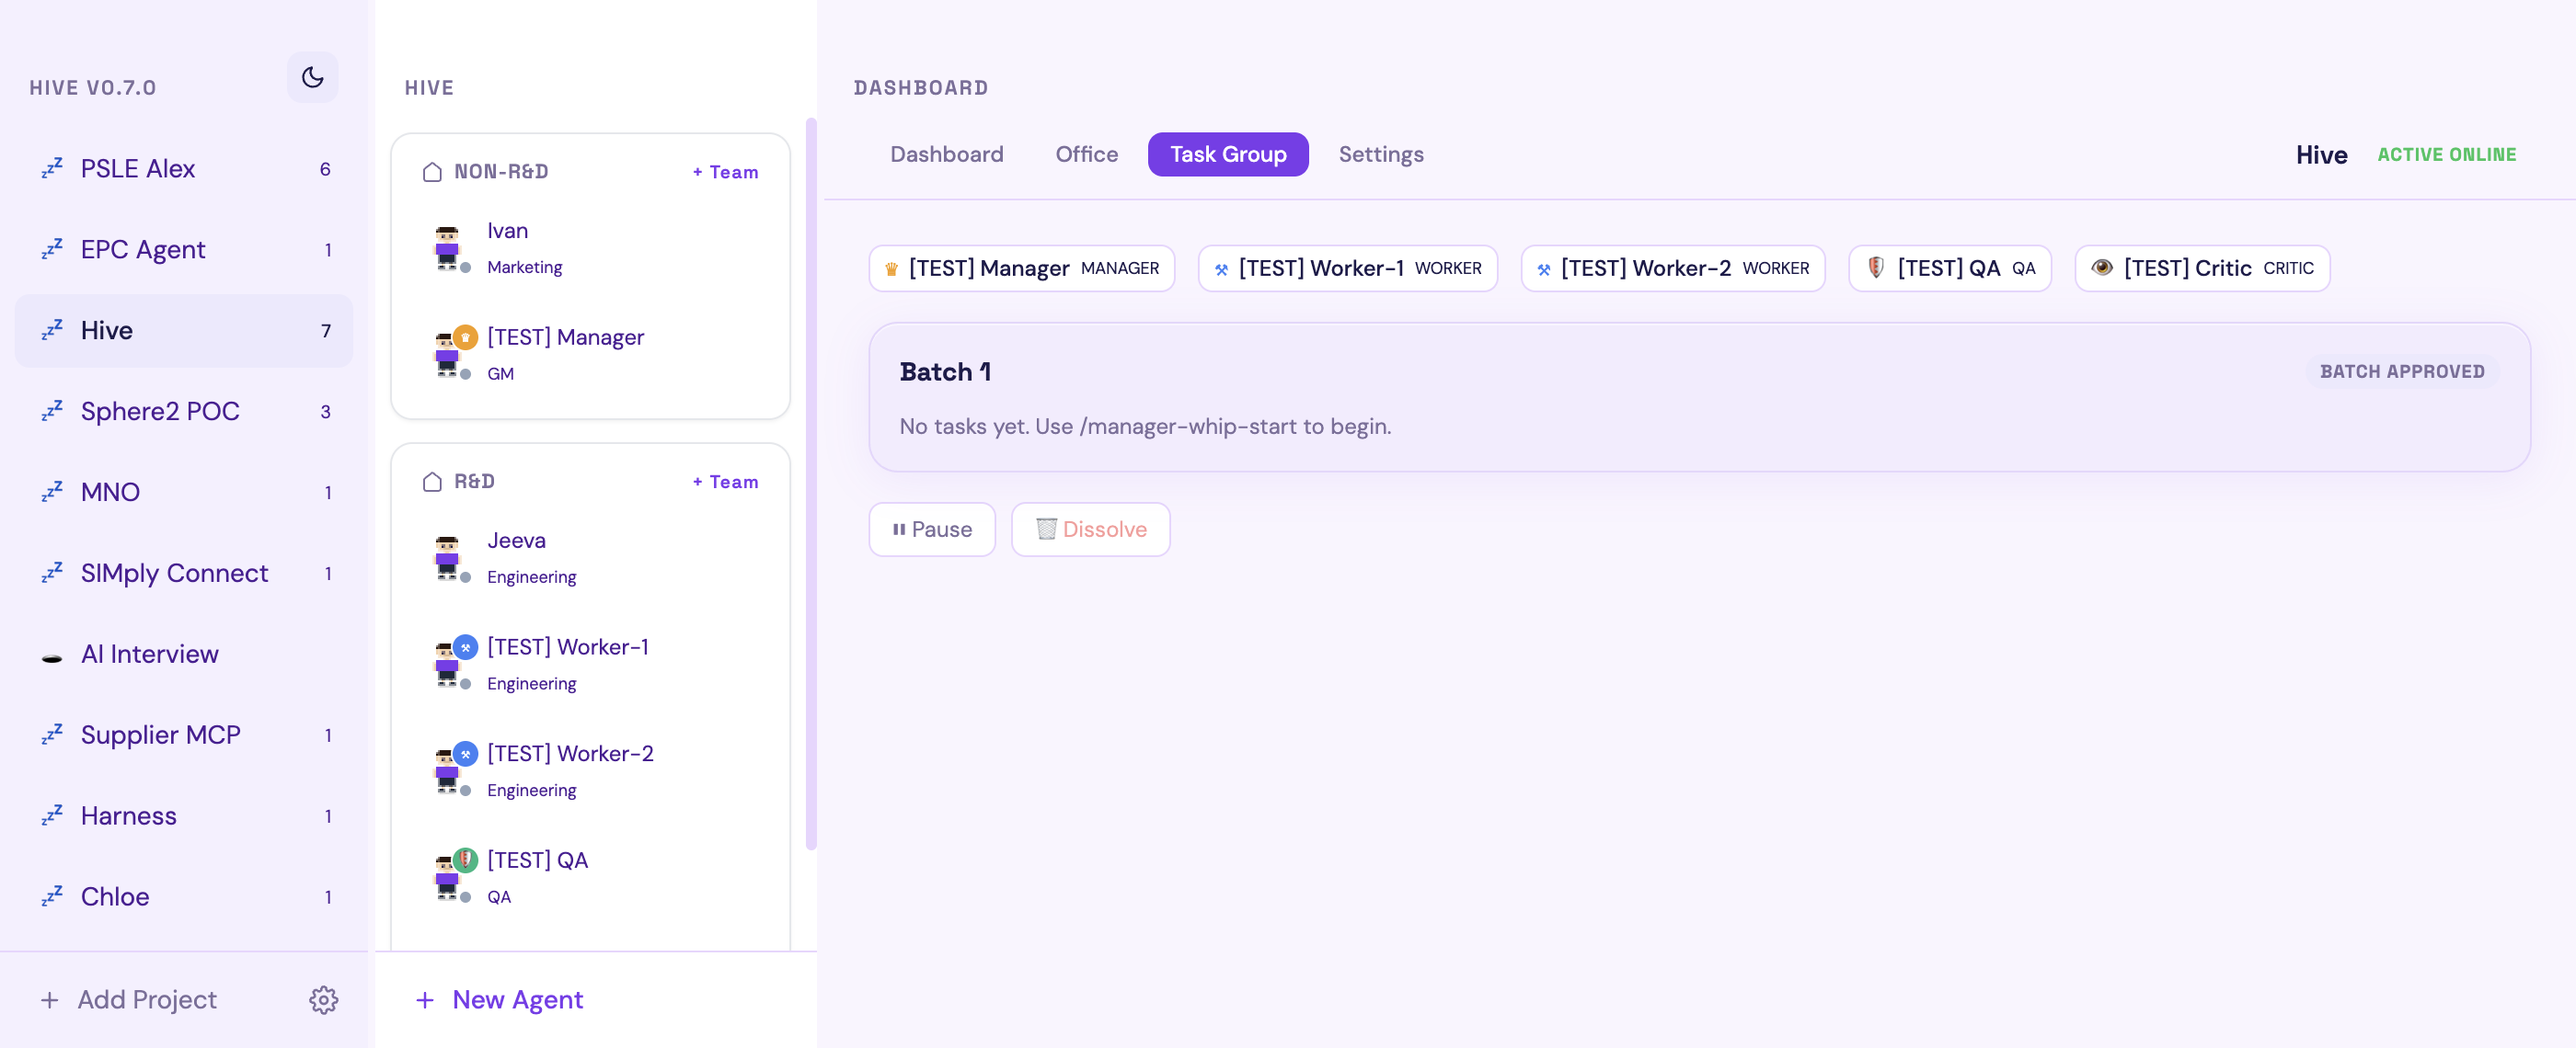
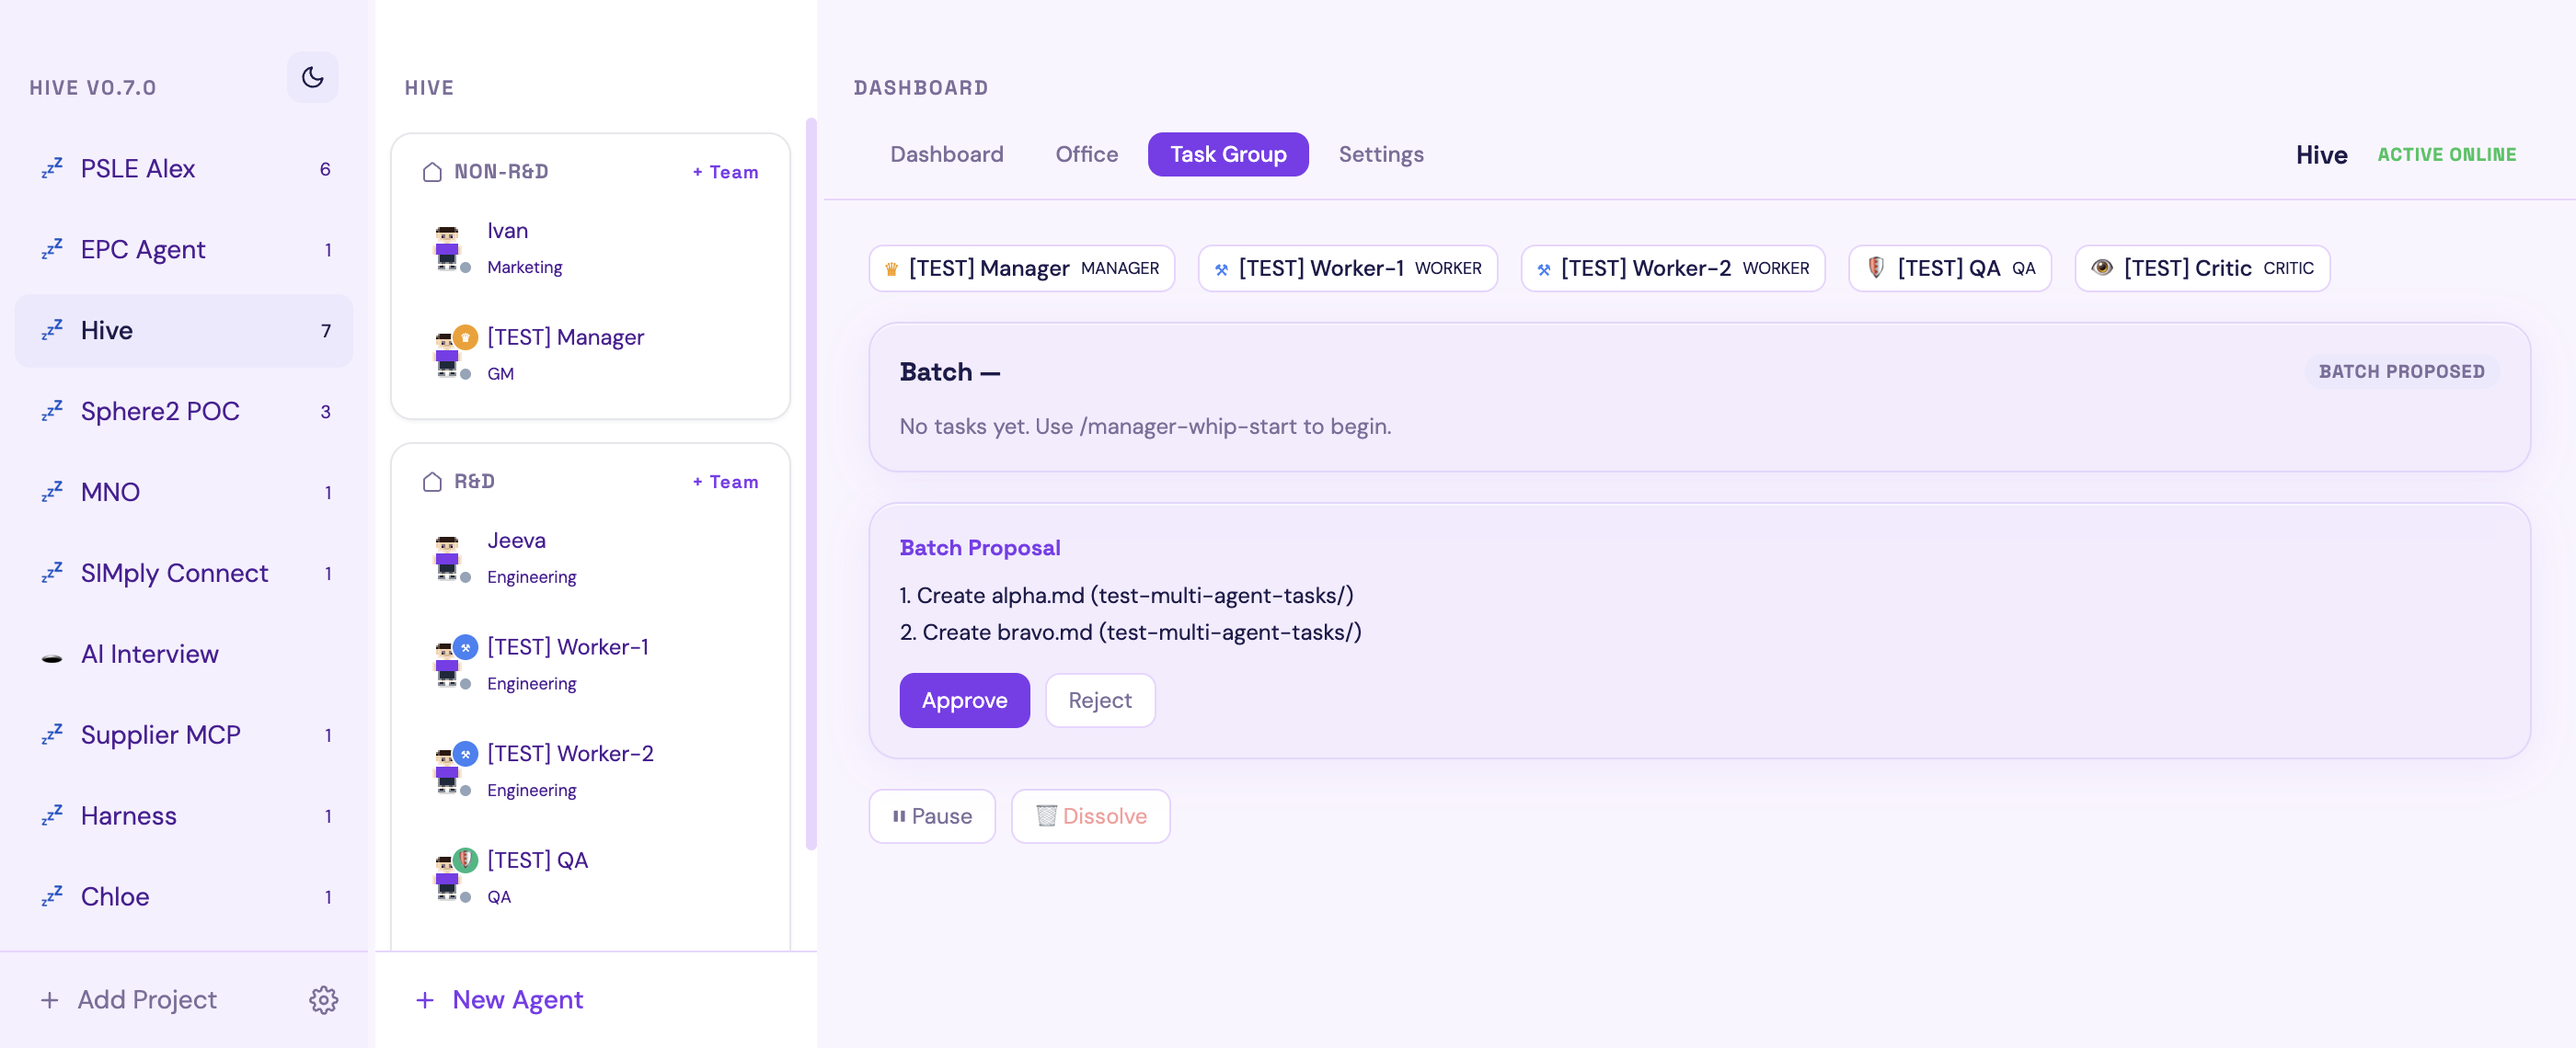
fix: wait for tasks assigned (not just created) before proceeding to workers
Run 27: tasks created at 10s but never assigned (status=pending).
Test was breaking out on taskCount>0 without waiting for Manager
to call task-assign. Now waits until assigned/in_progress/done count > 0.

diff --git a/e2e/integration.spec.ts b/e2e/integration.spec.ts
@@ -380,9 +380,24 @@ test.describe.serial('Integration Test', () => {
       log(`[${elapsed}s] task-status: ${taskCount} tasks`)
 
       if (taskCount > 0) {
-        proposalFound = true
-        log(`✅ ${taskCount} tasks created!`)
-        break
+        log(`${taskCount} tasks exist — waiting for assign...`)
+        // Check if any are assigned (not just created)
+        const assignedCount = await page.evaluate(async ({ port, agentId }) => {
+          try {
+            const res = await fetch(`http://127.0.0.1:${port}/task-status`, {
+              method: 'POST', headers: { 'Content-Type': 'application/json' },
+              body: JSON.stringify({ agentId })
+            })
+            const tasks = await res.json()
+            if (!Array.isArray(tasks)) return 0
+            return tasks.filter((t: any) => t.status === 'assigned' || t.status === 'in_progress' || t.status === 'done').length
+          } catch { return 0 }
+        }, { port: HIVE_PORT, agentId: managerId })
+        if (assignedCount > 0) {
+          proposalFound = true
+          log(`✅ ${assignedCount}/${taskCount} tasks assigned!`)
+          break
+        }
       }
 
       // Check for Approve button in UI

diff --git a/test-multi-agent-report/summary.md b/test-multi-agent-report/summary.md
@@ -1,51 +1,48 @@
-14:16:04 # Integration Test (3 tasks)
+16:01:07 # Integration Test (3 tasks)
 
-14:16:11 Baseline: 10 projects, 17 agents
-14:16:11 Cleaned residual definition: hive-agent-1775311763841.md
-14:16:11 Cleaned residual tasks: proj-1774243203957
-14:16:15 Created [TEST] Manager
-14:16:18 Created [TEST] Worker-1
-14:16:20 Created [TEST] Worker-2
-14:16:23 Created [TEST] QA
-14:16:25 Created [TEST] Critic
-14:16:28 Task group created
-14:16:31 Manager terminal opened
-14:16:31 Manager ID: agent-1775312175222
-14:16:51 Sent direct instruction to manager
-14:17:02 [10s] task-status: 0 tasks
-14:17:15 [23s] task-status: 0 tasks
-14:17:16 ✅ Clicked Approve — now waiting for Manager to create tasks
-14:17:28 [post-approve 10s] tasks: 0
-14:17:39 [post-approve 20s] tasks: 0
-14:17:49 [post-approve 30s] tasks: 0
-14:17:59 [post-approve 40s] tasks: 0
-14:18:09 [post-approve 50s] tasks: 0
-14:18:19 [post-approve 60s] tasks: 0
-14:18:29 [post-approve 70s] tasks: 0
-14:18:40 [post-approve 80s] tasks: 0
-14:18:50 [post-approve 90s] tasks: 0
-14:19:00 [post-approve 100s] tasks: 0
-14:19:10 [post-approve 110s] tasks: 0
-14:19:20 [post-approve 120s] tasks: 0
-14:19:30 [post-approve 130s] tasks: 0
-14:19:40 [post-approve 140s] tasks: 0
-14:19:51 [post-approve 150s] tasks: 0
-14:20:01 [post-approve 160s] tasks: 0
-14:20:11 [post-approve 170s] tasks: 0
-14:20:21 [post-approve 180s] tasks: 0
-14:20:31 [post-approve 190s] tasks: 0
-14:20:41 [post-approve 200s] tasks: 0
-14:20:52 [post-approve 210s] tasks: 0
-14:21:02 [post-approve 220s] tasks: 0
-14:21:12 [post-approve 230s] tasks: 0
-14:21:22 [post-approve 240s] tasks: 0
-14:21:32 [post-approve 250s] tasks: 0
-14:21:42 [post-approve 260s] tasks: 0
-14:21:52 [post-approve 270s] tasks: 0
-14:22:03 [post-approve 280s] tasks: 0
-14:22:13 [post-approve 290s] tasks: 0
-14:22:23 [post-approve 300s] tasks: 0
-14:22:23 Proposal found: false
-14:22:23 
+16:01:07 Isolated data dir: /var/folders/pv/f5m189_n64ldtzhcz3z4m42m0000gn/T/hive-integration-test
+16:01:17 Baseline: 10 projects, 17 agents
+16:01:17 Cleaned residual definition: hive-agent-1775312175222.md
+16:01:20 Created [TEST] Manager
+16:01:23 Created [TEST] Worker-1
+16:01:25 Created [TEST] Worker-2
+16:01:28 Created [TEST] QA
+16:01:30 Created [TEST] Critic
+16:01:33 Task group created
+16:01:36 Manager terminal opened
+16:01:36 Manager ID: agent-1775318480475
+16:01:56 Sent direct instruction to manager
+16:02:07 [10s] task-status: 2 tasks
+16:02:07 ✅ 2 tasks created!
+16:02:07 Proposal found: true
+16:02:11 Worker-1 started
+16:02:15 Worker-2 started
+16:02:46 [30s] Workers: 0/2 done, 0 blocked
+16:03:18 [62s] Workers: 0/2 done, 0 blocked
+16:03:50 [93s] Workers: 0/2 done, 0 blocked
+16:04:22 [125s] Workers: 0/2 done, 0 blocked
+16:04:53 [157s] Workers: 0/2 done, 0 blocked
+16:05:25 [188s] Workers: 0/2 done, 0 blocked
+16:05:57 [220s] Workers: 0/2 done, 0 blocked
+16:06:28 [252s] Workers: 0/2 done, 0 blocked
+16:07:00 [283s] Workers: 0/2 done, 0 blocked
+16:07:32 [315s] Workers: 0/2 done, 0 blocked
+16:08:03 [347s] Workers: 0/2 done, 0 blocked
+16:08:35 [379s] Workers: 0/2 done, 0 blocked
+16:09:07 [410s] Workers: 0/2 done, 0 blocked
+16:09:38 [442s] Workers: 0/2 done, 0 blocked
+16:10:10 [474s] Workers: 0/2 done, 0 blocked
+16:10:42 [505s] Workers: 0/2 done, 0 blocked
+16:10:42 Workers complete: false
+16:10:45 QA started
+16:11:49 Critic started
+16:12:51 Test complete
+16:12:51 
 --- TEARDOWN ---
-14:22:23 Final: 10 projects, 17 agents
+16:12:53 Dissolved task group
+16:12:54 Deleted: [TEST] Manager
+16:12:55 Deleted: [TEST] Worker-1
+16:12:56 Deleted: [TEST] Worker-2
+16:12:57 Deleted: [TEST] QA
+16:12:57 Deleted: [TEST] Critic
+16:12:57 Final: 10 projects, 17 agents
